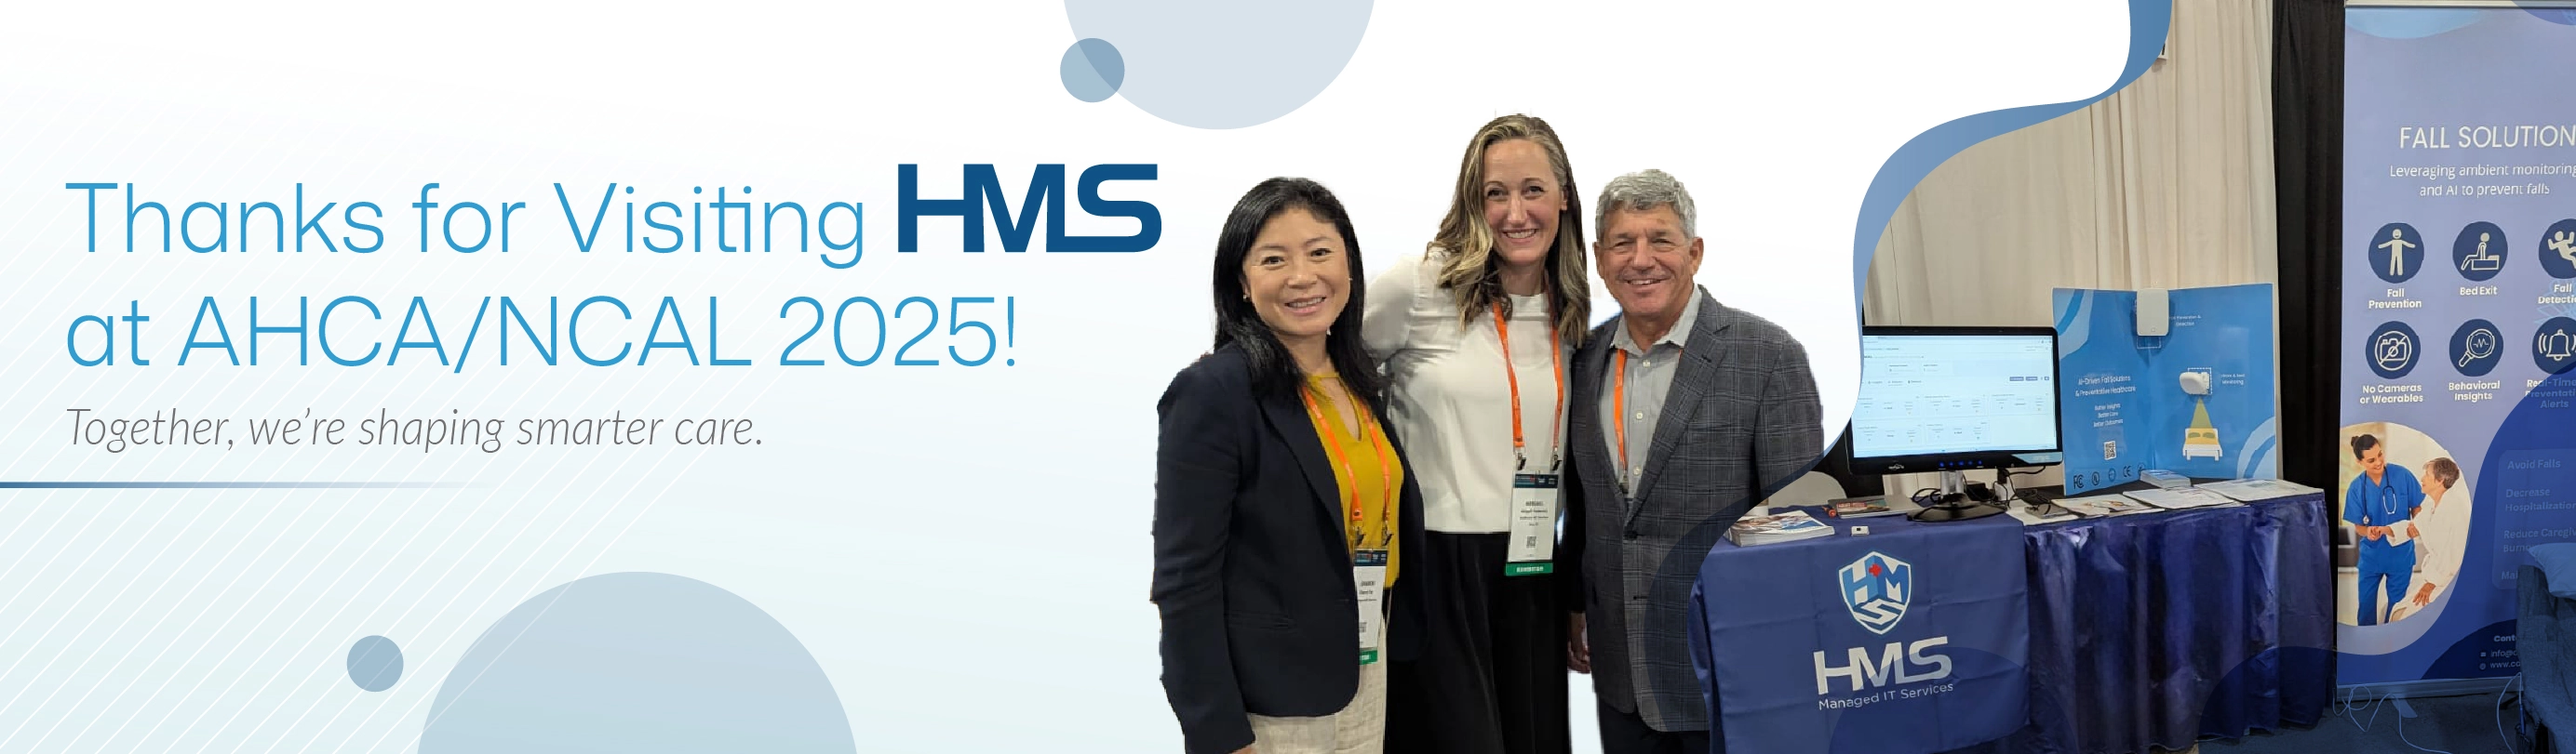
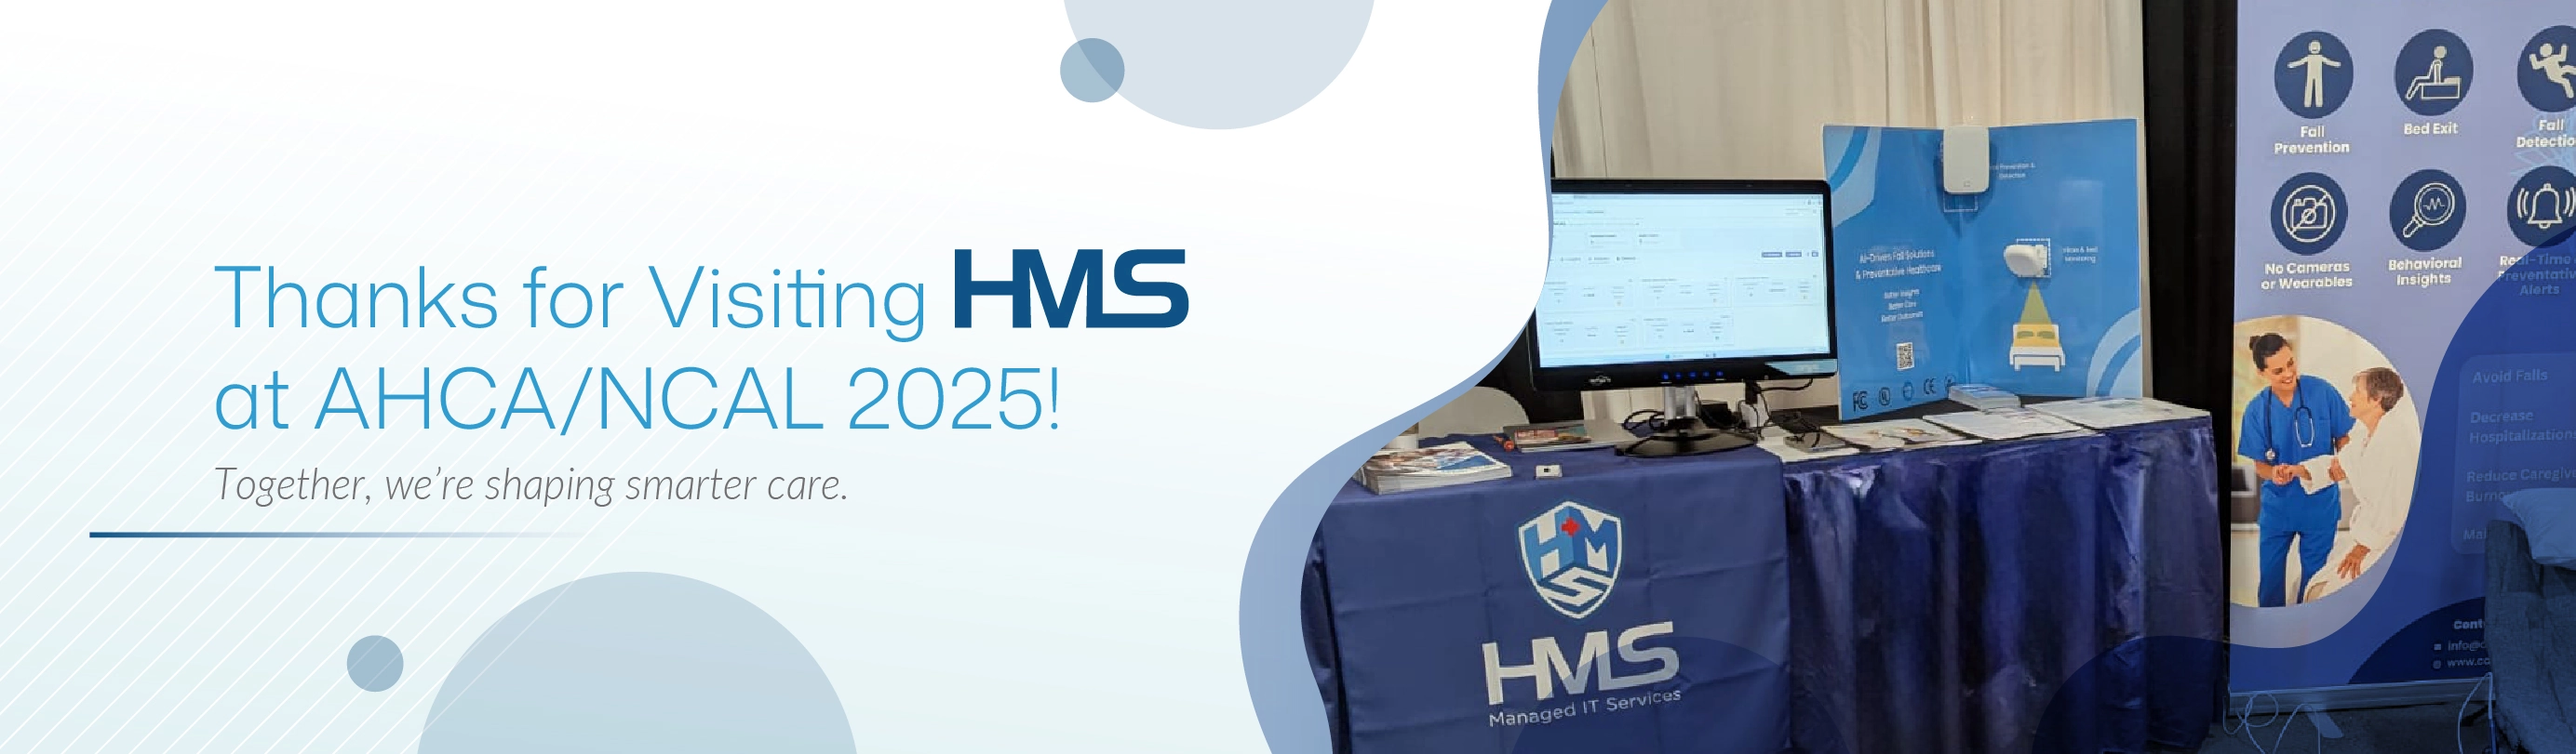
ahcaPic

diff --git a/about/news/hms_concludes_a_successful_showcase_at_ahca_ncal_2025.html b/about/news/hms_concludes_a_successful_showcase_at_ahca_ncal_2025.html
@@ -247,9 +247,6 @@
                   <a class="example-image-link" href="https://healthmit.services/images/news/2025ahca_xxl-01.webp" data-lightbox="example-set" data-title="Click the right half of the image to move forward.">
                     <img class="example-image mb-1 mb-sm-0" src="https://healthmit.services/images/news/2025ahca_xs-01.webp" alt="" />
                   </a>
-                  <a class="example-image-link" href="https://healthmit.services/images/news/2025ahca_xxl-02.webp" data-lightbox="example-set" data-title="Click the right half of the image to move forward.">
-                    <img class="example-image mb-1 mb-sm-0" src="https://healthmit.services/images/news/2025ahca_xs-02.webp" alt="" />
-                  </a>
                   <a class="example-image-link" href="https://healthmit.services/images/news/2025ahca_xxl-03.webp" data-lightbox="example-set" data-title="Click the right half of the image to move forward.">
                     <img class="example-image mb-1 mb-sm-0" src="https://healthmit.services/images/news/2025ahca_xs-03.webp" alt="" />
                   </a>
